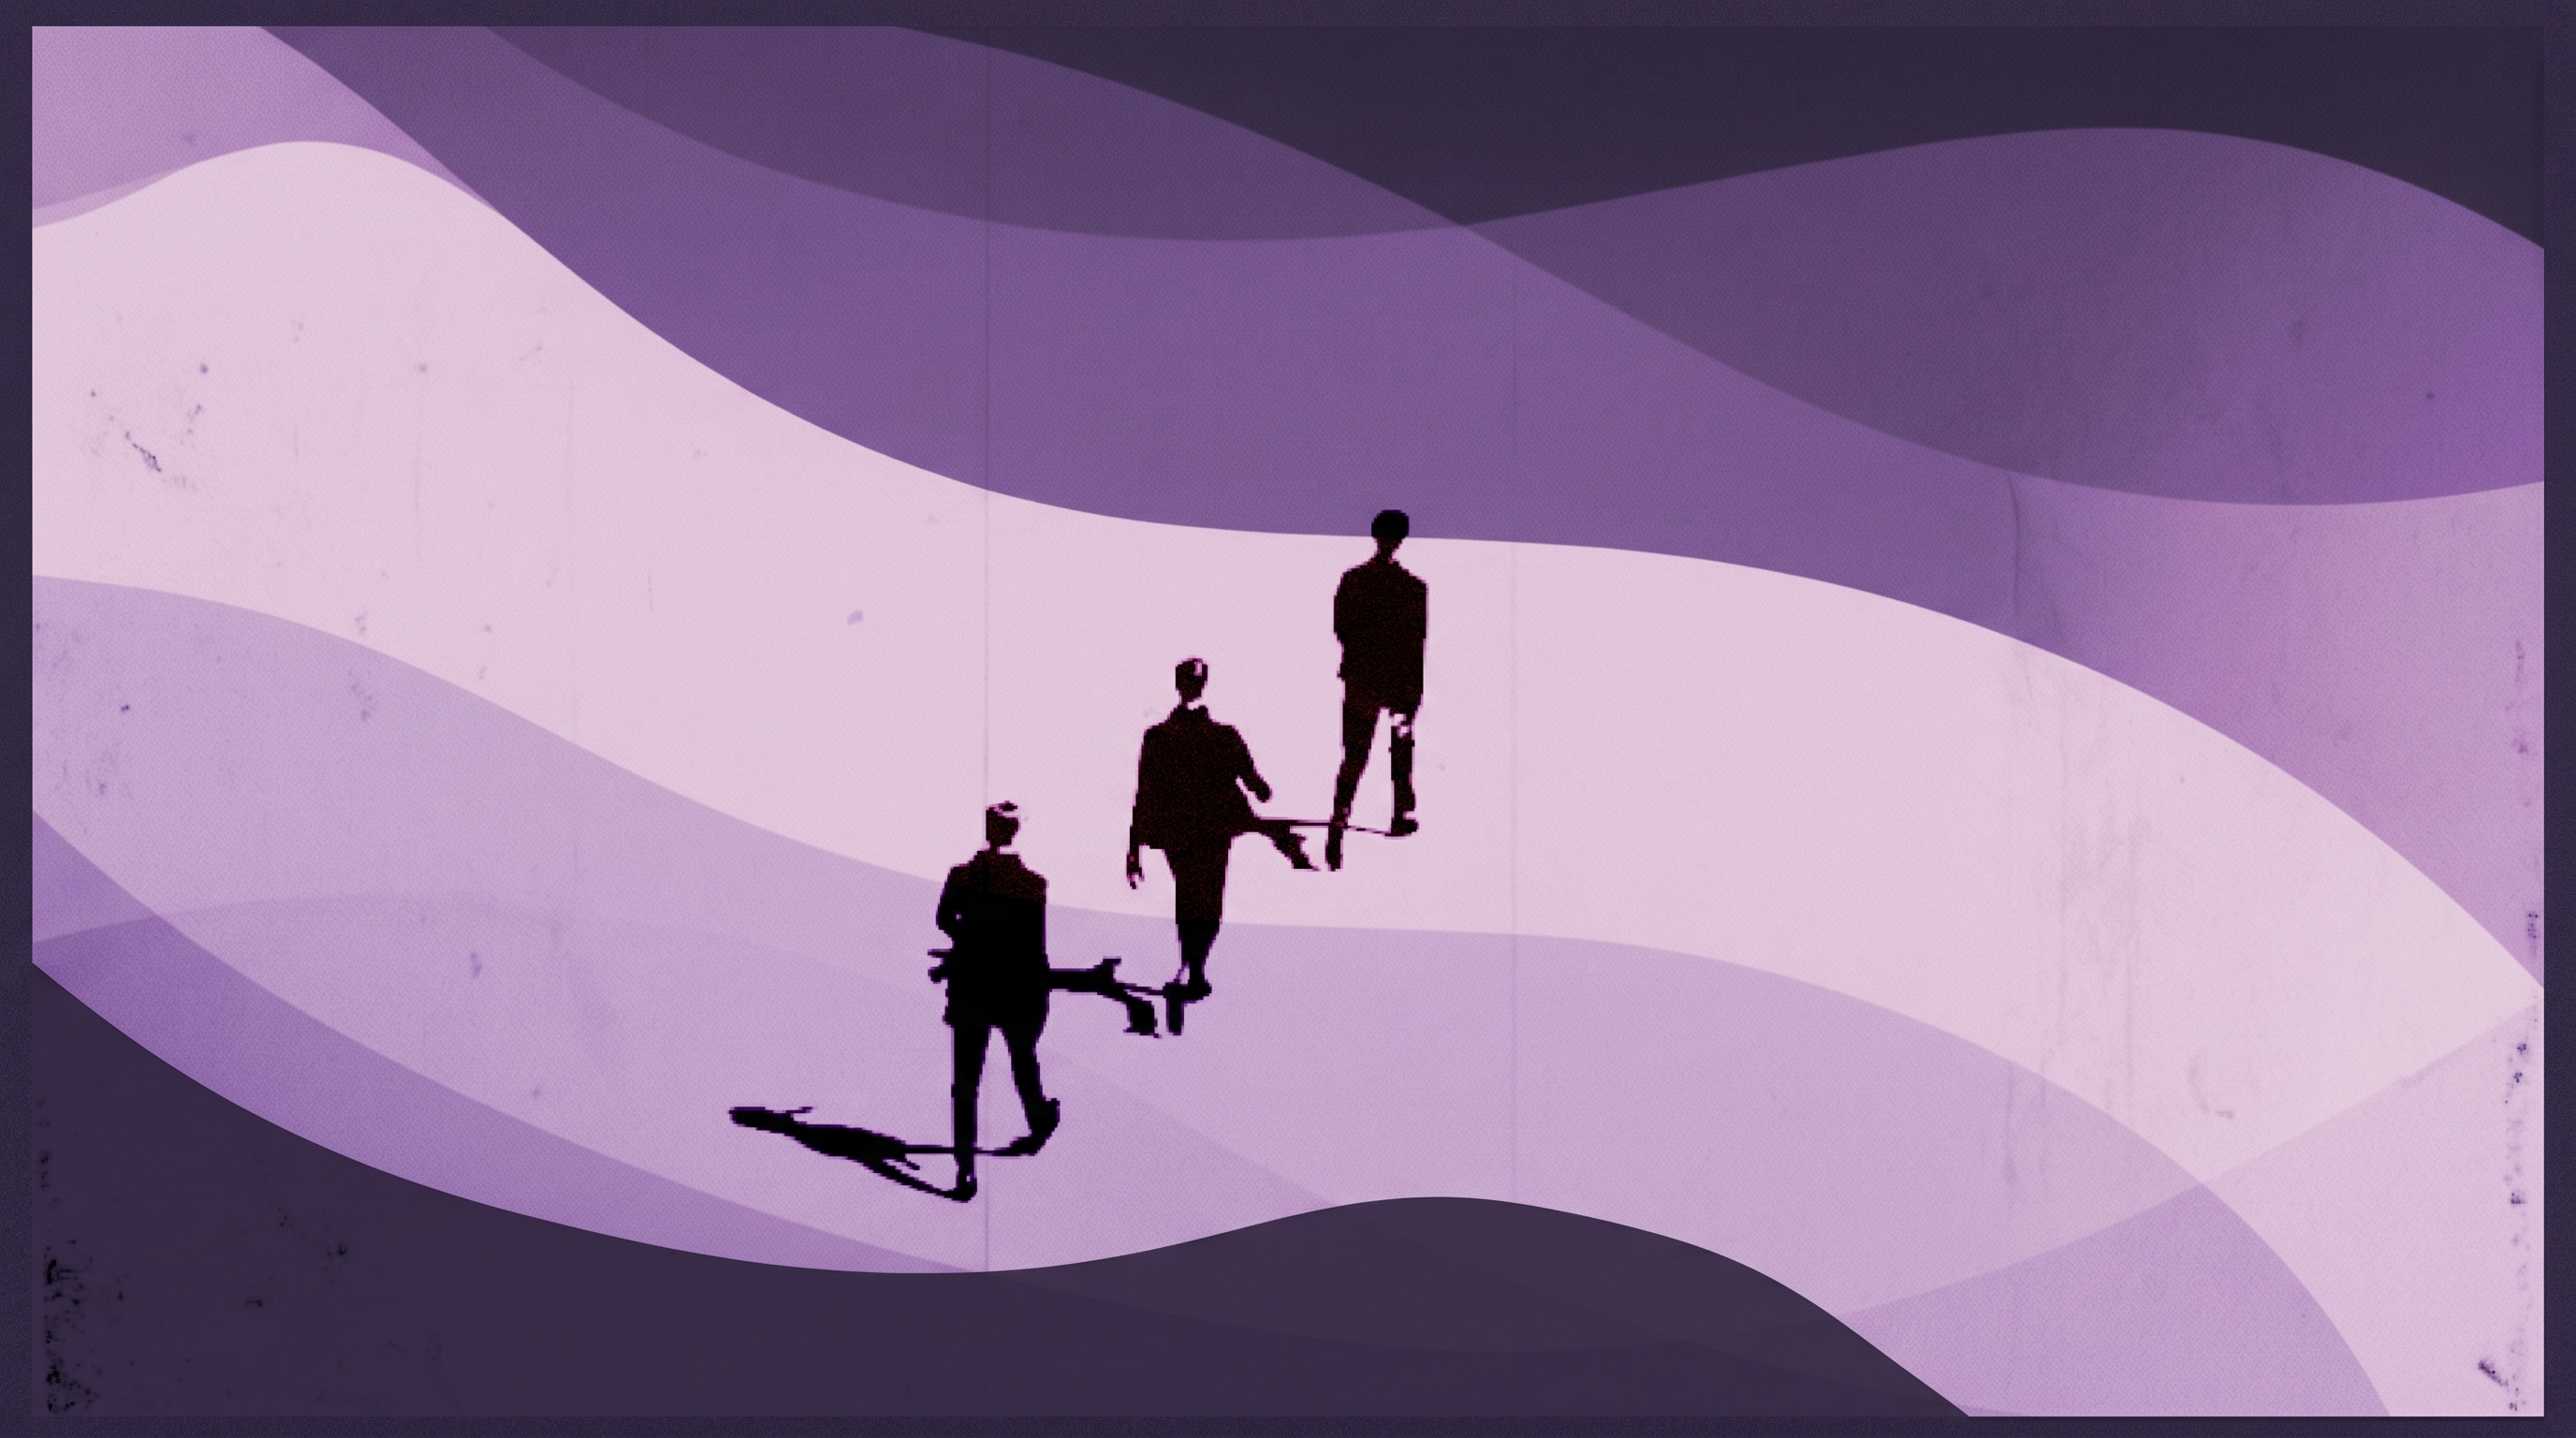
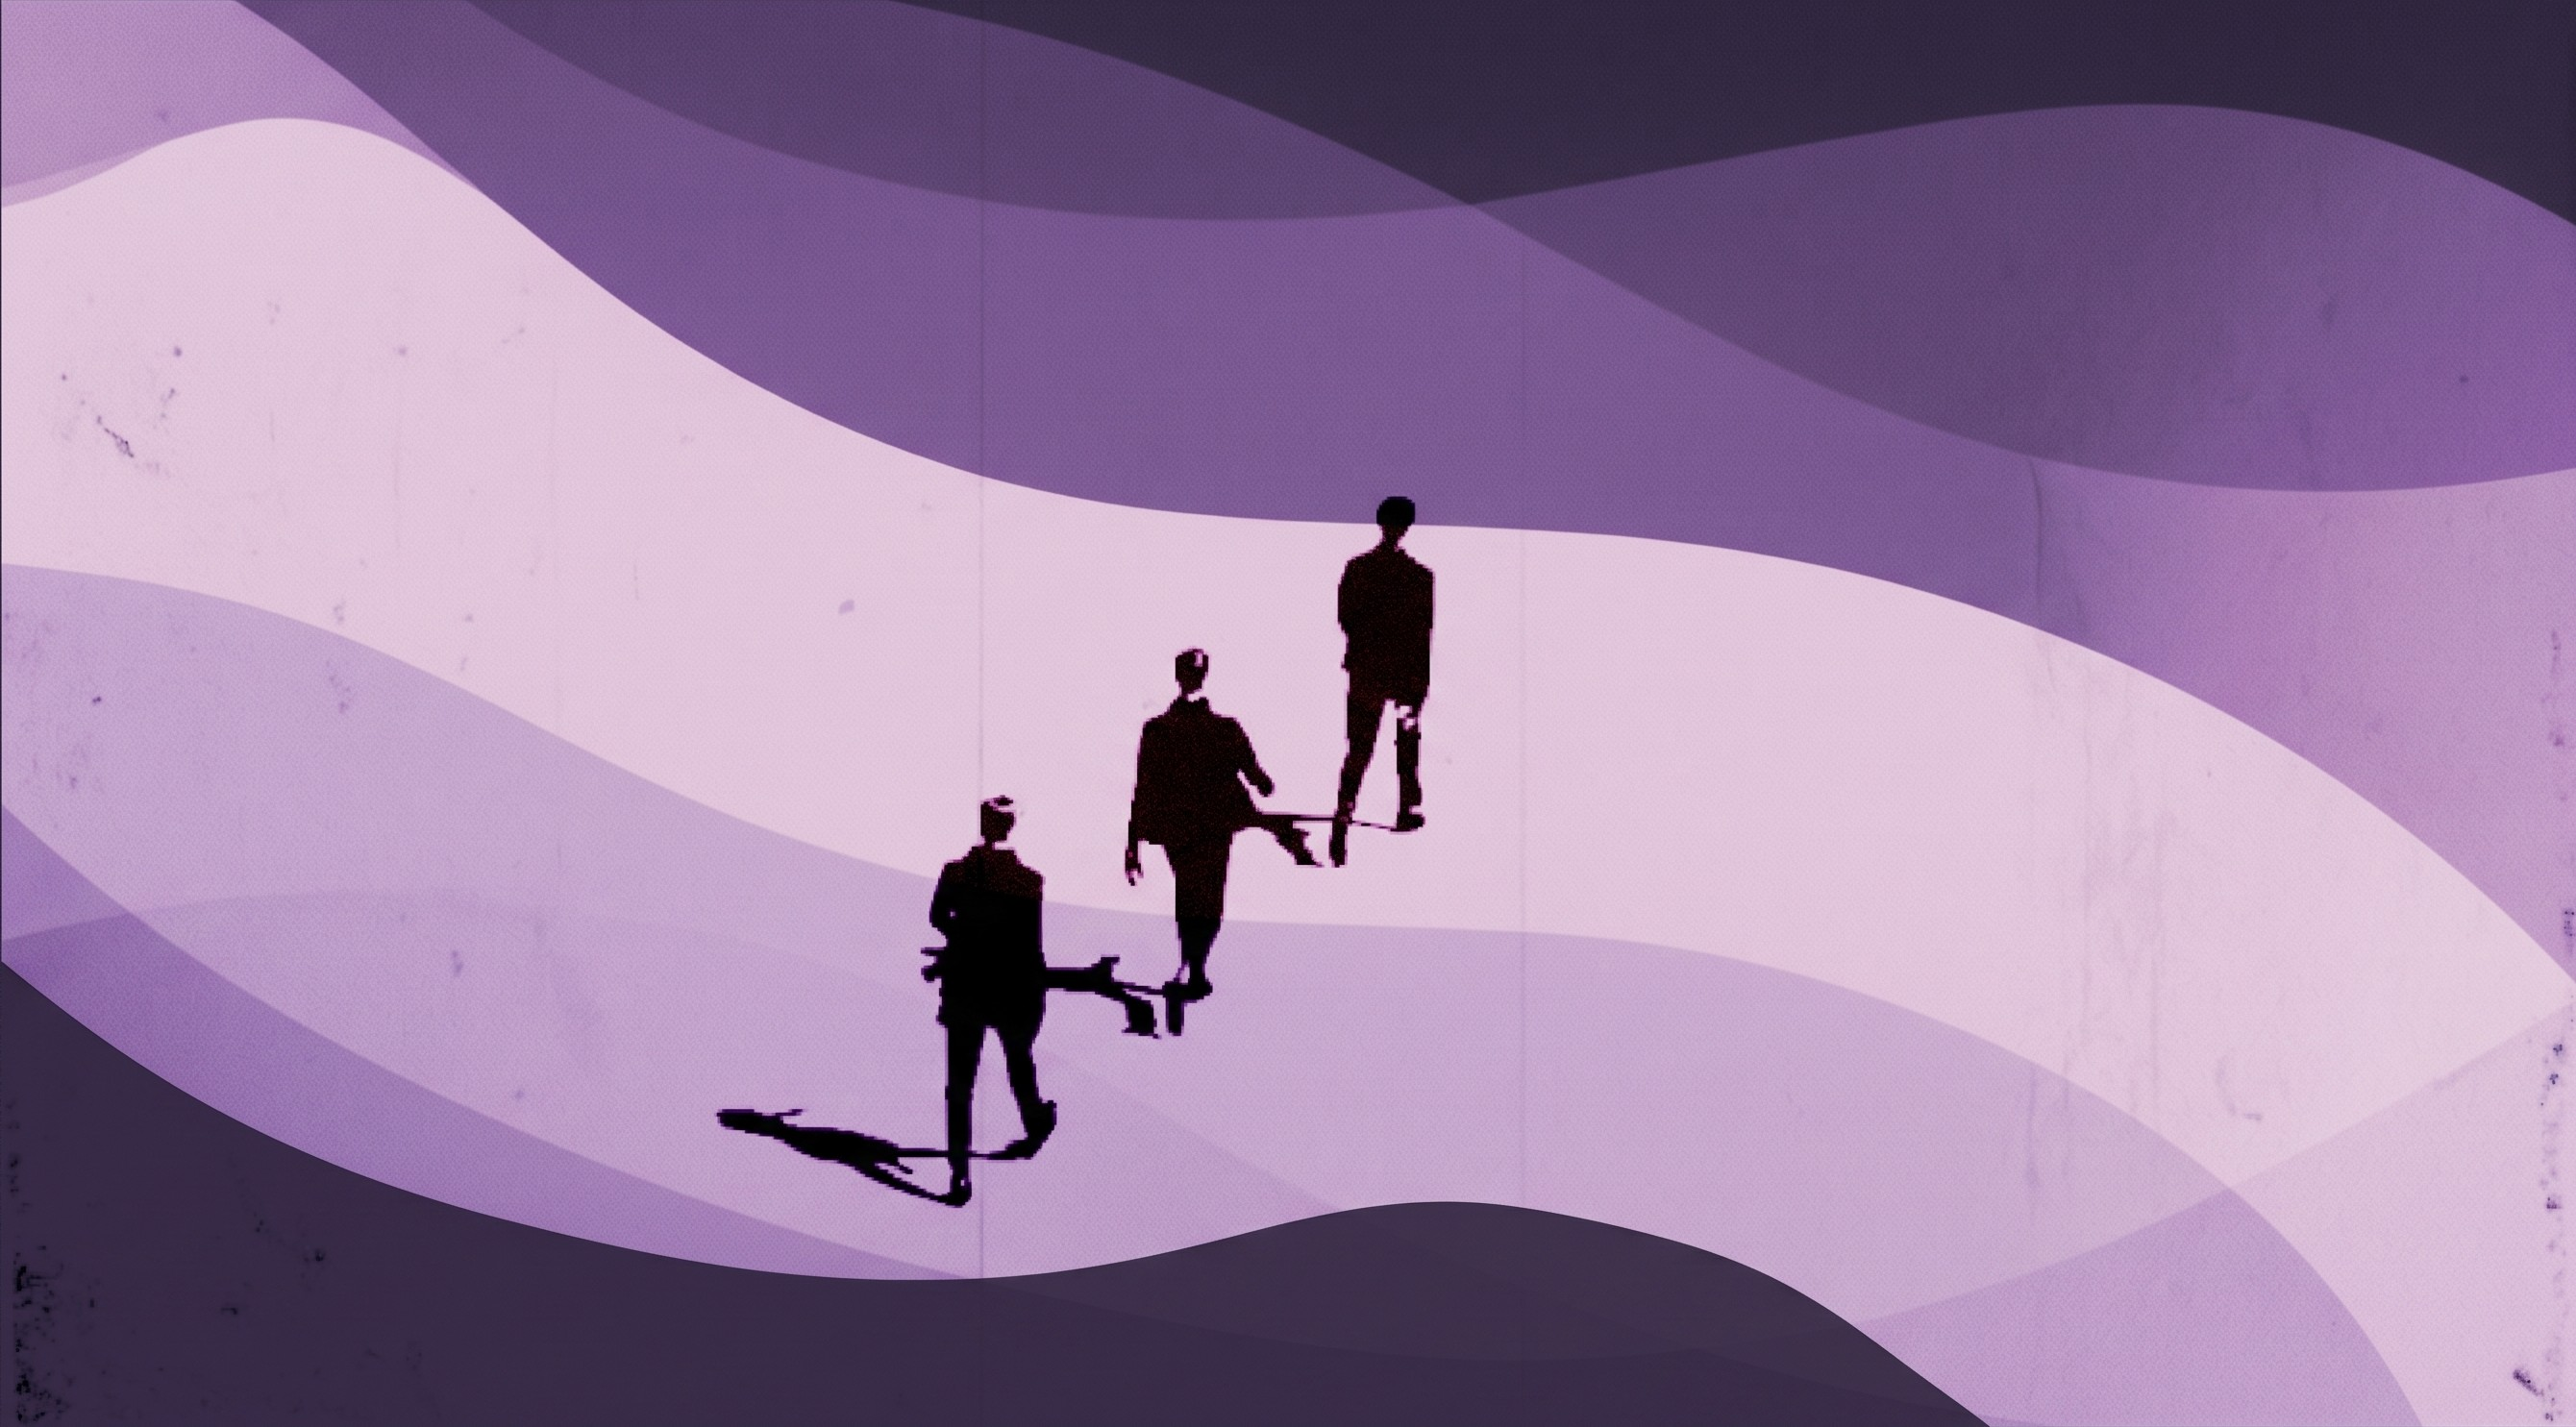
feat(about): implement about section layout

diff --git a/apps/web/src/components/sections/what-is-tpt.tsx b/apps/web/src/components/sections/what-is-tpt.tsx
@@ -1,75 +1,158 @@
+import aboutGraphic from "@/images/about-graphic.png";
+
 export default function WhatIsTptSection() {
   return (
-    <section id="what-is-tpt" className="relative py-24 md:py-32">
-      <div className="max-w-6xl mx-auto px-4 sm:px-6 lg:px-8">
-        {/* Section header */}
-        <div className="text-center mb-16">
-          <p className="text-purple-400 text-sm font-semibold tracking-[0.2em] uppercase mb-3">
-            About the Event
-          </p>
-          <h2 className="text-4xl md:text-5xl lg:text-6xl font-bold font-heading mb-6">
-            <span className="bg-gradient-to-r from-white to-purple-200 bg-clip-text text-transparent">
-              What is TPT?
-            </span>
-          </h2>
-          <div className="w-20 h-1 bg-gradient-to-r from-purple-500 to-violet-500 mx-auto rounded-full" />
-        </div>
+    <section id="what-is-tpt" className="relative py-24 md:py-32 overflow-hidden bg-gradient-to-b from-[#0d0518] to-[#150826] border-b border-purple-500/10">
+      {/* Background decoration */}
+      <div className="absolute inset-0 overflow-hidden pointer-events-none opacity-20">
+        <svg className="absolute w-full h-full text-purple-500/10" xmlns="http://www.w3.org/2000/svg">
+          <defs>
+            <pattern id="grid" width="40" height="40" patternUnits="userSpaceOnUse">
+              <path d="M 40 0 L 0 0 0 40" fill="none" stroke="currentColor" strokeWidth="0.5" />
+            </pattern>
+          </defs>
+          <rect width="100%" height="100%" fill="url(#grid)" />
+          {/* Contour waves */}
+          <path d="M-100,200 C300,50 600,450 1000,150 C1300,-50 1600,300 2000,100" fill="none" stroke="rgba(244,63,114,0.25)" strokeWidth="1" />
+          <path d="M-100,250 C300,100 600,500 1000,200 C1300,0 1600,350 2000,150" fill="none" stroke="rgba(244,63,114,0.15)" strokeWidth="1" />
+          <path d="M-100,300 C300,150 600,550 1000,250 C1300,50 1600,400 2000,200" fill="none" stroke="rgba(244,63,114,0.08)" strokeWidth="1" strokeDasharray="5,5" />
+        </svg>
+      </div>
 
-        {/* Content area — TEAM MEMBER: Fill in content here */}
-        <div className="grid md:grid-cols-2 gap-12 items-center">
-          {/* Left: Description */}
-          <div className="space-y-6">
-            <p className="text-lg text-purple-100/80 leading-relaxed">
-              <span className="text-white font-semibold">
-                The Perfect Trajectory (TPT)
-              </span>{" "}
-              is a flagship two-day orientation program designed for
-              newly-elected IEDC (Innovation and Entrepreneurship Development
-              Centre) team leads across Kerala.
-            </p>
-            <p className="text-lg text-purple-100/60 leading-relaxed">
-              {/* TODO: Team member — add more detailed description here */}
-              The program ensures every team is aligned, equipped with the right
-              knowledge, and ready to achieve common goals effectively. It
-              brings together student innovators and leaders to chart the
-              perfect trajectory for their IEDC journey.
-            </p>
-            <div className="flex flex-wrap gap-3 pt-4">
-              {["Leadership", "Innovation", "Networking", "Strategy"].map(
-                (tag) => (
-                  <span
-                    key={tag}
-                    className="px-4 py-1.5 rounded-full text-sm font-medium border border-purple-500/30 bg-purple-500/10 text-purple-300"
-                  >
-                    {tag}
-                  </span>
-                ),
-              )}
+      {/* Decorative vertical banners from poster */}
+      <div className="absolute left-0 top-0 bottom-0 hidden xl:flex flex-col items-center justify-center pointer-events-none select-none z-10">
+        <div className="bg-[#f43f72] text-[#0d0518] font-bold text-xs uppercase tracking-[0.3em] py-8 px-2 [writing-mode:vertical-lr] rotate-180 rounded-r-lg font-heading shadow-[0_0_20px_rgba(244,63,114,0.2)]">
+          TPT 4.0 • ORIENTATION
+        </div>
+      </div>
+      <div className="absolute right-0 top-0 bottom-0 hidden xl:flex flex-col items-center justify-center pointer-events-none select-none z-10">
+        <div className="bg-gradient-to-b from-[#f43f72] via-purple-600 to-transparent w-0.5 h-full opacity-35" />
+      </div>
+
+      <div className="relative max-w-6xl mx-auto px-4 sm:px-6 lg:px-8">
+        <div className="grid lg:grid-cols-12 gap-12 lg:gap-16 items-center">
+          
+          {/* Left Column: Description & CTAs */}
+          <div className="lg:col-span-7 space-y-8 text-left">
+            <div>
+              <p className="text-[#f43f72] text-sm font-semibold tracking-[0.25em] uppercase mb-4">
+                About The Event
+              </p>
+              <h2 className="text-4xl sm:text-5xl md:text-6xl font-bold font-heading mb-6 tracking-tight leading-tight">
+                <span className="text-transparent bg-clip-text bg-gradient-to-r from-white via-purple-200 to-[#f43f72]">
+                  What is TPT?
+                </span>
+              </h2>
+              <div className="w-20 h-1 bg-gradient-to-r from-[#f43f72] to-purple-500 rounded-full" />
+            </div>
+
+            <div className="space-y-6">
+              <p className="text-lg text-purple-100/90 leading-relaxed font-sans">
+                <span className="text-white font-semibold border-b border-[#f43f72]/40 pb-0.5">
+                  The Perfect Trajectory (TPT)
+                </span>{" "}
+                is a flagship two-day orientation program designed specifically for
+                newly-elected IEDC (Innovation and Entrepreneurship Development
+                Centre) team leads across Kerala.
+              </p>
+              <p className="text-base sm:text-lg text-purple-100/60 leading-relaxed font-sans">
+                The program ensures every team is aligned, equipped with the right
+                knowledge, and ready to achieve common goals effectively. It
+                brings together student innovators and leaders to chart the
+                perfect trajectory for their IEDC journey.
+              </p>
+            </div>
+
+            {/* CTA Buttons */}
+            <div className="flex flex-wrap items-center gap-4 pt-4">
+              <a
+                href="#schedule"
+                className="px-8 py-3.5 text-sm font-semibold tracking-wider uppercase text-white bg-gradient-to-r from-[#f43f72] to-[#a855f7] btn-cyber transition-all duration-300 shadow-[0_0_20px_rgba(244,63,114,0.25)] hover:shadow-[0_0_35px_rgba(244,63,114,0.45)] hover:from-[#ff5a8a] hover:to-[#c084fc]"
+              >
+                Explore Schedule
+              </a>
+              <a
+                href="#registration"
+                className="group px-6 py-3 text-sm font-semibold tracking-wide text-purple-300 hover:text-white transition-colors duration-200 flex items-center gap-2"
+              >
+                Register Now
+                <span className="group-hover:translate-x-1 transition-transform">→</span>
+              </a>
             </div>
           </div>
 
-          {/* Right: Stats / Key Info cards */}
-          <div className="grid grid-cols-2 gap-4">
+          {/* Right Column: Holographic Cyber Poster Card */}
+          <div className="lg:col-span-5 relative flex justify-center">
+            {/* Soft pink glow behind card */}
+            <div className="absolute -inset-4 bg-gradient-to-tr from-[#f43f72]/20 to-purple-600/20 rounded-3xl opacity-40 blur-2xl" />
+
+            <div className="relative w-full max-w-sm p-4 rounded-2xl border border-[#f43f72]/30 bg-[#0d0518]/70 backdrop-blur-md shadow-[0_0_40px_rgba(244,63,114,0.15)] group overflow-hidden">
+              
+              {/* Vertical side panel line */}
+              <div className="absolute left-0 top-0 bottom-0 w-[3px] bg-gradient-to-b from-[#f43f72] via-purple-600 to-transparent" />
+              
+              {/* Featured Poster Image */}
+              <div className="relative rounded-xl overflow-hidden aspect-[4/5] border border-white/5 bg-[#0d0518]/50">
+                <img
+                  src={aboutGraphic}
+                  alt="TPT Orientation Cyber Bust"
+                  className="w-full h-full object-cover group-hover:scale-105 transition-transform duration-700"
+                />
+                
+                {/* Overlay Badge - Top Left */}
+                <div className="absolute top-4 left-4 px-3 py-1.5 bg-[#0d0518]/90 border border-white/10 rounded-lg text-left backdrop-blur-sm">
+                  <p className="text-[9px] uppercase tracking-widest text-white/40">Edition</p>
+                  <p className="text-xs font-bold text-white font-mono">4.0 / TPT</p>
+                </div>
+
+                {/* Overlay Dates - Top Right */}
+                <div className="absolute top-4 right-4 flex flex-col items-center bg-[#0d0518]/70 backdrop-blur-sm p-2 rounded-lg border border-white/5">
+                  <span className="text-xl font-bold font-heading text-white leading-none">17</span>
+                  <span className="text-xl font-bold font-heading text-[#f43f72] leading-none mt-0.5">18</span>
+                  <span className="text-[8px] uppercase tracking-widest text-white/40 [writing-mode:vertical-lr] mt-1.5 font-semibold">JULY</span>
+                </div>
+
+                {/* Overlay Info - Bottom Card */}
+                <div className="absolute bottom-4 left-4 right-4 flex justify-between items-end bg-[#0d0518]/80 border border-white/10 p-3 rounded-xl backdrop-blur-sm">
+                  <div>
+                    <p className="text-[9px] font-bold tracking-wider text-[#f43f72] uppercase mb-0.5">Orientation</p>
+                    <p className="text-sm font-bold text-white font-heading">The Perfect Trajectory</p>
+                  </div>
+                  <div className="w-7 h-7 rounded-full border border-white/20 flex items-center justify-center text-white/60 bg-white/5">
+                    <svg className="w-3.5 h-3.5" fill="none" viewBox="0 0 24 24" stroke="currentColor" strokeWidth={2.5}>
+                      <path strokeLinecap="round" strokeLinejoin="round" d="M9 5l7 7-7 7" />
+                    </svg>
+                  </div>
+                </div>
+              </div>
+            </div>
+          </div>
+        </div>
+
+        {/* Stats card at bottom - matching the box style of the reference */}
+        <div className="mt-16 md:mt-24 border border-[#f43f72]/30 rounded-2xl p-6 sm:p-8 bg-[#0d0518]/40 backdrop-blur-md max-w-4xl mx-auto shadow-[0_0_30px_rgba(244,63,114,0.08)]">
+          <div className="grid grid-cols-2 md:grid-cols-4 gap-8 text-center divide-y md:divide-y-0 md:divide-x divide-purple-500/10">
             {[
-              { number: "4.0", label: "Edition" },
-              { number: "2", label: "Days" },
-              { number: "100+", label: "IEDC Leads" },
-              { number: "Kerala", label: "Statewide" },
-            ].map((stat) => (
-              <div
-                key={stat.label}
-                className="group relative p-6 rounded-2xl border border-purple-500/20 bg-purple-950/30 backdrop-blur-sm hover:border-purple-400/40 hover:bg-purple-900/20 transition-all duration-300"
-              >
-                <p className="text-3xl md:text-4xl font-bold text-white font-heading mb-1 group-hover:text-purple-200 transition-colors">
+              { number: "4.0", label: "Edition", desc: "Flagship Event" },
+              { number: "2", label: "Days", desc: "Orientation" },
+              { number: "100+", label: "IEDC Leads", desc: "Across Kerala" },
+              { number: "Statewide", label: "Reach", desc: "All Districts" },
+            ].map((stat, i) => (
+              <div key={stat.label} className={`pt-6 md:pt-0 ${i > 0 ? "md:pl-6" : ""}`}>
+                <p className="text-3xl sm:text-4xl font-bold font-heading text-white mb-1">
                   {stat.number}
                 </p>
-                <p className="text-sm text-purple-400/70 font-medium">
+                <p className="text-xs sm:text-sm font-semibold tracking-wider text-[#f43f72] uppercase mb-1">
                   {stat.label}
+                </p>
+                <p className="text-[10px] sm:text-xs text-white/30 font-medium">
+                  {stat.desc}
                 </p>
               </div>
             ))}
           </div>
         </div>
+
       </div>
     </section>
   );

diff --git a/apps/web/src/components/sections/hero.tsx b/apps/web/src/components/sections/hero.tsx
@@ -61,10 +61,10 @@ export default function HeroSection() {
             href="https://makemypass.com/event/the-perfect-trajectory-4-0"
             target="_blank"
             rel="noopener noreferrer"
-            className="inline-flex items-center justify-between sm:justify-center gap-6 pl-8 pr-6 py-3.5 text-sm font-bold tracking-wider uppercase text-[#1a0a2e] bg-[#f43f72] rounded-full hover:bg-[#ff5a8a] transition-colors duration-200 w-full sm:w-auto"
+            className="inline-flex items-center justify-between sm:justify-center gap-6 pl-8 pr-6 py-3.5 text-sm font-bold tracking-wider uppercase text-white bg-gradient-to-r from-[#f43f72] to-[#a855f7] btn-cyber hover:from-[#ff5a8a] hover:to-[#c084fc] transition-all duration-200 w-full sm:w-auto shadow-[0_0_20px_rgba(244,63,114,0.25)]"
           >
             <span>Join Us</span>
-            <span className="flex items-center justify-center w-8 h-8 rounded-full bg-[#1a0a2e]/15">
+            <span className="flex items-center justify-center w-8 h-8 rounded-full bg-white/15">
               <svg className="w-4 h-4" fill="none" viewBox="0 0 24 24" stroke="currentColor" strokeWidth={2.5}>
                 <path strokeLinecap="round" strokeLinejoin="round" d="M13 7l5 5m0 0l-5 5m5-5H6" />
               </svg>
@@ -72,9 +72,11 @@ export default function HeroSection() {
           </a>
           <a
             href="#what-is-tpt"
-            className="px-8 py-3 text-sm font-semibold tracking-wide uppercase text-white/70 border border-white/15 rounded-full hover:text-white hover:border-white/30 transition-colors duration-200 text-center w-full sm:w-auto"
+            className="relative p-[1px] btn-cyber w-full sm:w-auto bg-white/15 hover:bg-white/30 transition-all duration-200"
           >
-            Learn More
+            <span className="btn-cyber bg-[#0d0518] hover:bg-white/[0.03] transition-colors duration-200 py-3.5 px-8 text-sm font-semibold tracking-wide uppercase text-white/70 hover:text-white flex items-center justify-center">
+              Learn More
+            </span>
           </a>
         </div>
       </div>

diff --git a/packages/ui/src/styles/globals.css b/packages/ui/src/styles/globals.css
@@ -182,3 +182,8 @@
 .animation-delay-400 { animation-delay: 400ms; }
 .animation-delay-500 { animation-delay: 500ms; }
 .animation-delay-600 { animation-delay: 600ms; }
+
+/* ===== Cyberpunk Cut Corners Button ===== */
+.btn-cyber {
+  clip-path: polygon(12px 0, 100% 0, 100% calc(100% - 12px), calc(100% - 12px) 100%, 0 100%, 0 12px);
+}

diff --git a/apps/web/src/components/header.tsx b/apps/web/src/components/header.tsx
@@ -76,7 +76,7 @@ export default function Header() {
           href="https://makemypass.com/event/the-perfect-trajectory-4-0"
           target="_blank"
           rel="noopener noreferrer"
-          className="hidden md:block text-[13px] font-medium text-white bg-purple-600 px-4 py-1 rounded-full hover:bg-purple-500 transition-colors duration-200"
+          className="hidden md:block text-[13px] font-bold text-white bg-gradient-to-r from-[#f43f72] to-[#a855f7] px-4 py-1.5 rounded-full hover:opacity-95 hover:shadow-[0_0_15px_rgba(244,63,114,0.4)] transition-all duration-200"
         >
           Register
         </a>
@@ -115,7 +115,7 @@ export default function Header() {
             href="https://makemypass.com/event/the-perfect-trajectory-4-0"
             target="_blank"
             rel="noopener noreferrer"
-            className="block px-3 py-2.5 text-sm font-medium text-white text-center bg-purple-600 rounded-lg mt-1"
+            className="block px-3 py-2.5 text-sm font-bold text-white text-center bg-gradient-to-r from-[#f43f72] to-[#a855f7] rounded-lg mt-1 hover:opacity-95"
           >
             Register Now
           </a>

diff --git a/apps/web/src/components/sections/registration.tsx b/apps/web/src/components/sections/registration.tsx
@@ -24,7 +24,7 @@ export default function RegistrationSection() {
               href="https://makemypass.com/event/the-perfect-trajectory-4-0"
               target="_blank"
               rel="noopener noreferrer"
-              className="group inline-flex items-center gap-2 px-8 py-3 rounded-full bg-gradient-to-r from-purple-600 to-violet-600 text-white font-bold text-sm shadow-lg shadow-purple-900/50 hover:shadow-purple-700/60 hover:scale-105 transition-all duration-300"
+              className="group inline-flex items-center gap-2 px-8 py-3 rounded-full bg-gradient-to-r from-[#f43f72] to-[#a855f7] text-white font-bold text-sm shadow-lg shadow-[#f43f72]/20 hover:shadow-[0_0_15px_rgba(244,63,114,0.4)] hover:scale-105 transition-all duration-300"
             >
               Register on MakeMyPass
               <svg

diff --git a/apps/web/src/components/sections/schedule.tsx b/apps/web/src/components/sections/schedule.tsx
@@ -123,7 +123,7 @@ export default function ScheduleSection() {
               onClick={() => setActiveDay(day)}
               className={`px-6 py-3 rounded-xl font-semibold text-sm transition-all duration-300 cursor-pointer ${
                 activeDay === day
-                  ? "bg-gradient-to-r from-purple-600 to-violet-600 text-white shadow-lg shadow-purple-900/40"
+                  ? "bg-gradient-to-r from-[#f43f72] to-[#a855f7] text-white shadow-lg shadow-[#f43f72]/20"
                   : "border border-purple-500/20 bg-purple-950/30 text-purple-300 hover:border-purple-400/40 hover:bg-purple-900/20"
               }`}
             >